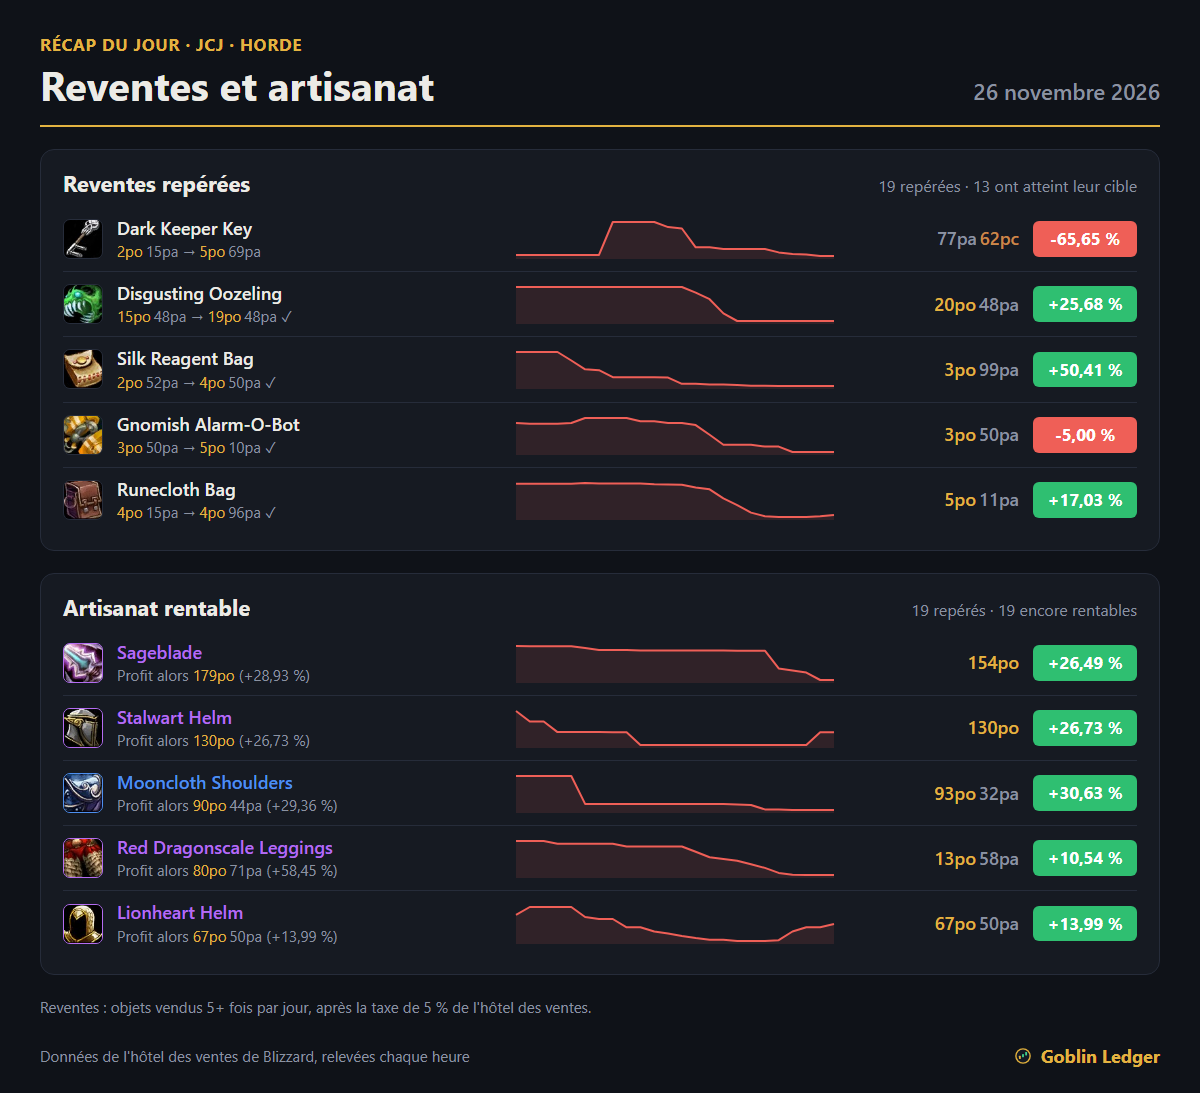
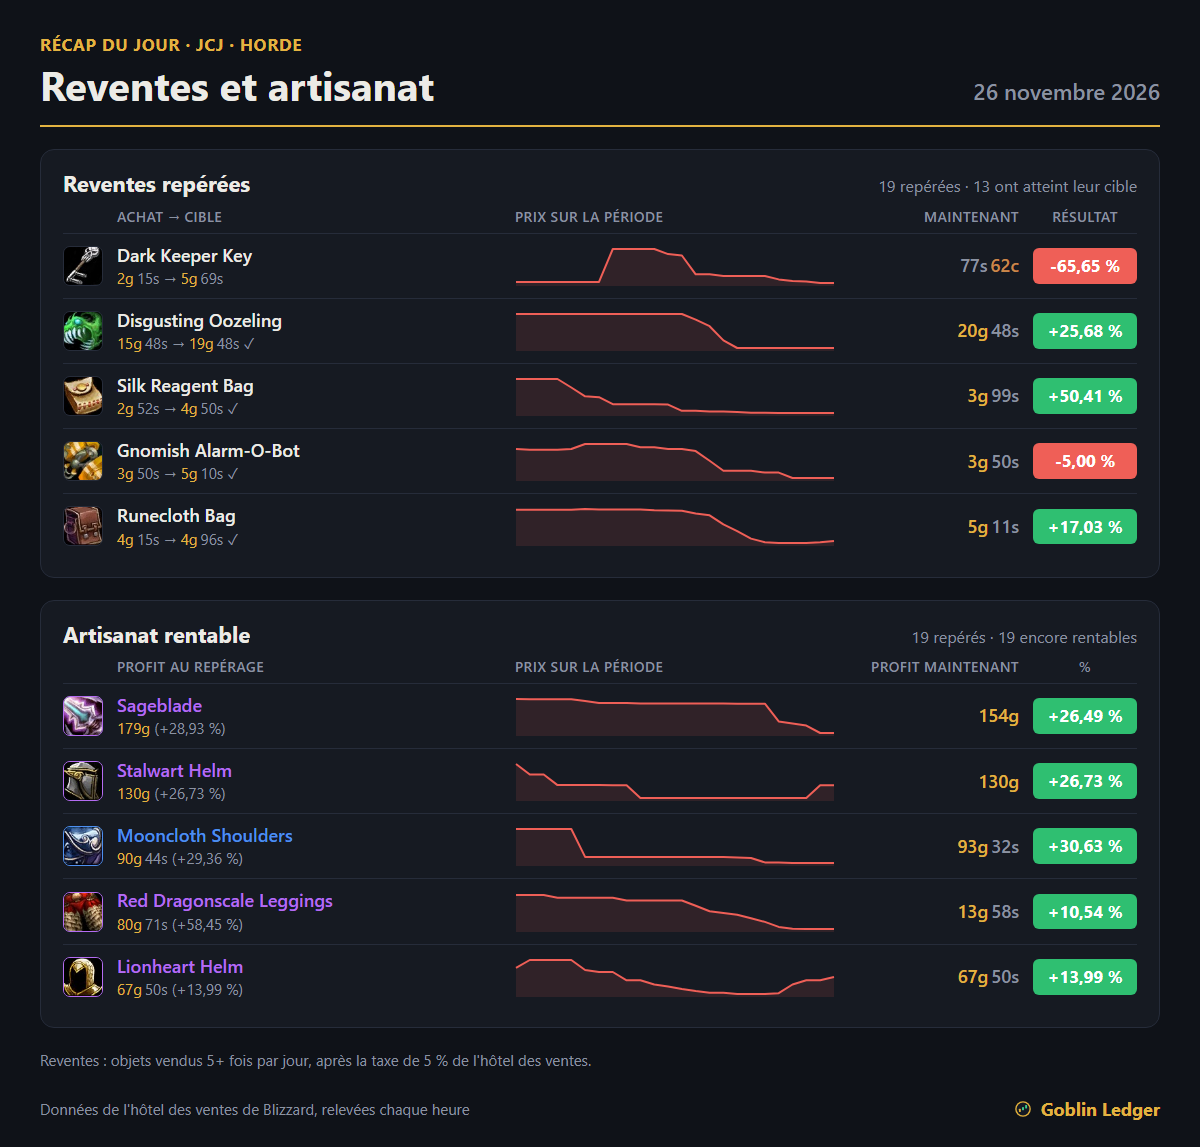
Money is g/s/c in every language, never po/pa/pc
App French locale, background alert runner, recap pages, Discord embed, AI prompt and guard (which
now rejects po/pa/pc). Samples re-rendered.

diff --git a/src/lib/i18n.ts b/src/lib/i18n.ts
@@ -429,8 +429,8 @@ const fr: Record<MessageKey, string> = {
   indexes: "Indices",
   indexesUnavailable: "Les indices ne sont pas encore disponibles pour cet hôtel des ventes.",
   indexProvisional: "Base 100 à la clôture du 19 nov. 2026 pour cet hôtel : aucun prix antérieur pour partir du lancement.",
-  indexMethod: "Fonctionnement des indices : paniers fixes pondérés par le volume quotidien en or (ventes estimées par jour × valeur marchande), plafonnés par objet; valeur = niveau au début de la période × Σ poids × prix actuel ÷ prix au début. Base 100 = lancement de WoW Forever (4 nov. 2026) : valeurs quotidiennes depuis le lancement, puis horaires, avec chaînage. Le panier est choisi sur la première journée complète (19 nov.), le prix de base de chaque objet étant la médiane de cette journée. Chaque heure, le prix d’un objet est la médiane de ses 7 dernières heures : une annonce isolée ne peut pas faire bondir un indice. Les marchés de la semaine du lancement étaient minces : chaque jour, le niveau suit la variation des objets cotés ce jour-là et jusqu’à trois jours avant; un objet qui commence à se vendre plus tard entre sans faire bouger le niveau, et la variation quotidienne d’un objet compte au plus pour ×2 ou ÷2. Rééquilibrés à la première réinitialisation hebdomadaire de chaque mois (mardi 15 h UTC), avec chaînage pour que le niveau ne saute pas : un objet doit se vendre au moins une fois et pour 1 po par jour, les objets en place restent tant qu'ils sont classés dans 1,2 × la taille du panier, et chaque trimestre (janvier, avril, juillet, octobre) le panier est reconstruit sur les 14 derniers jours. Les prix de plus de 72 h sont exclus. Un indice demande au moins 5 objets activement échangés dans un hôtel des ventes; sinon il n’y est pas affiché.",
-  indexMethod4: "Fonctionnement des indices : chaque indice est un panier dont les poids restent fixes d’une révision à l’autre, selon l’or échangé un jour typique par objet (avant que les ventes soient connues, l’or mis en vente) et plafonnés par objet. Valeur = niveau à la dernière révision × la moyenne géométrique pondérée de prix actuel ÷ prix à cette révision : un prix qui double et un prix qui diminue de moitié s’annulent. Le prix d’un objet est la médiane de ses 7 dernières heures, maintenue entre ×2 et ÷2 de son niveau récent, et il compte au plus pour ×3 ou ÷3 de son prix à la révision. Base 100 = lancement de WoW Forever (4 nov. 2026) : prix quotidiens depuis le lancement, puis nos prix horaires à partir du 18 nov. Les hôtels neutres, sans prix antérieurs, partent de 100 le 18 nov. (les indices peu fournis quelques jours plus tard). Le premier panier vient des journées du 5 au 9 nov.; chaque panier suivant n’utilise que les données antérieures à sa révision. Révisions : à chaque réinitialisation du mardi pendant les semaines de lancement (10, 17 et 24 nov.), puis à la première réinitialisation de chaque mois (15 h UTC) : un objet doit se vendre au moins une fois et pour 1 po par jour, les objets en place restent tant qu'ils sont classés dans 1,2 × la taille du panier, et chaque trimestre (janvier, avril, juillet, octobre) le panier est reconstruit sur les 14 derniers jours. Une révision ne fait jamais bouger le niveau. Les prix de plus de 72 h sont exclus. Un indice demande au moins 5 objets activement échangés dans un hôtel des ventes; sinon il n’y est pas affiché.",
+  indexMethod: "Fonctionnement des indices : paniers fixes pondérés par le volume quotidien en or (ventes estimées par jour × valeur marchande), plafonnés par objet; valeur = niveau au début de la période × Σ poids × prix actuel ÷ prix au début. Base 100 = lancement de WoW Forever (4 nov. 2026) : valeurs quotidiennes depuis le lancement, puis horaires, avec chaînage. Le panier est choisi sur la première journée complète (19 nov.), le prix de base de chaque objet étant la médiane de cette journée. Chaque heure, le prix d’un objet est la médiane de ses 7 dernières heures : une annonce isolée ne peut pas faire bondir un indice. Les marchés de la semaine du lancement étaient minces : chaque jour, le niveau suit la variation des objets cotés ce jour-là et jusqu’à trois jours avant; un objet qui commence à se vendre plus tard entre sans faire bouger le niveau, et la variation quotidienne d’un objet compte au plus pour ×2 ou ÷2. Rééquilibrés à la première réinitialisation hebdomadaire de chaque mois (mardi 15 h UTC), avec chaînage pour que le niveau ne saute pas : un objet doit se vendre au moins une fois et pour 1g par jour, les objets en place restent tant qu'ils sont classés dans 1,2 × la taille du panier, et chaque trimestre (janvier, avril, juillet, octobre) le panier est reconstruit sur les 14 derniers jours. Les prix de plus de 72 h sont exclus. Un indice demande au moins 5 objets activement échangés dans un hôtel des ventes; sinon il n’y est pas affiché.",
+  indexMethod4: "Fonctionnement des indices : chaque indice est un panier dont les poids restent fixes d’une révision à l’autre, selon l’or échangé un jour typique par objet (avant que les ventes soient connues, l’or mis en vente) et plafonnés par objet. Valeur = niveau à la dernière révision × la moyenne géométrique pondérée de prix actuel ÷ prix à cette révision : un prix qui double et un prix qui diminue de moitié s’annulent. Le prix d’un objet est la médiane de ses 7 dernières heures, maintenue entre ×2 et ÷2 de son niveau récent, et il compte au plus pour ×3 ou ÷3 de son prix à la révision. Base 100 = lancement de WoW Forever (4 nov. 2026) : prix quotidiens depuis le lancement, puis nos prix horaires à partir du 18 nov. Les hôtels neutres, sans prix antérieurs, partent de 100 le 18 nov. (les indices peu fournis quelques jours plus tard). Le premier panier vient des journées du 5 au 9 nov.; chaque panier suivant n’utilise que les données antérieures à sa révision. Révisions : à chaque réinitialisation du mardi pendant les semaines de lancement (10, 17 et 24 nov.), puis à la première réinitialisation de chaque mois (15 h UTC) : un objet doit se vendre au moins une fois et pour 1g par jour, les objets en place restent tant qu'ils sont classés dans 1,2 × la taille du panier, et chaque trimestre (janvier, avril, juillet, octobre) le panier est reconstruit sur les 14 derniers jours. Une révision ne fait jamais bouger le niveau. Les prix de plus de 72 h sont exclus. Un indice demande au moins 5 objets activement échangés dans un hôtel des ventes; sinon il n’y est pas affiché.",
   indexBase: "Base 100 =",
   launchLabel: "lancement, 4 nov. 2026",
   indexRebalanced: "panier depuis le",

diff --git a/collector/recap-ai.ts b/collector/recap-ai.ts
@@ -59,9 +59,9 @@ export interface Allowed {
 export interface Facts { json: Record<string, unknown>; allowed: Allowed }
 
 const round1 = (v: number) => Math.round(v * 10) / 10;
-/** Gold, silver and copper as the summary writes them: 18g 49s / 87s 94c / 12c (po/pa/pc in French); from 1,000 gold, gold only. */
+/** Gold, silver and copper as the summary writes them: 18g 49s / 87s 94c / 12c in every language; from 1,000 gold, gold only. */
 export function coinText(copper: number, lang: Lang): string {
-  const suf = lang === "fr" ? { g: "po", s: "pa", c: "pc" } : { g: "g", s: "s", c: "c" };
+  const suf = { g: "g", s: "s", c: "c" };
   const v = Math.round(Math.abs(copper));
   const g = Math.floor(v / 10_000);
   const s = Math.floor((v % 10_000) / 100);
@@ -184,7 +184,7 @@ export function loadContext(path: string = join(dirname(fileURLToPath(import.met
 
 /** The chat messages: a strict system prompt and the facts as JSON. */
 export function buildMessages(facts: Facts, kind: RecapFile["kind"], lang: Lang, context: string, retryNote?: string): { role: "system" | "user"; content: string }[] {
-  const language = lang === "fr" ? "Canadian French (Québec), with prices in po/pa/pc as given" : "English, with prices in g/s/c as given";
+  const language = lang === "fr" ? "Canadian French (Québec), with prices in g/s/c exactly as given (never po/pa/pc)" : "English, with prices in g/s/c as given";
   const period = kind === "daily" ? "day" : kind === "weekly" ? "week" : "month";
   const system = [
     `You write the market-close summary of a World of Warcraft: Forever auction house recap for the Goblin Ledger newsletter, in ${language}.`,
@@ -220,9 +220,9 @@ function parseNumber(raw: string, lang: Lang): Written | null {
 
 const NUM = String.raw`\d{1,3}(?:[,   ]\d{3})+(?:[.,]\d+)?|\d+(?:[.,]\d+)?`;
 
-/** Gold amounts such as "18g 49s", "21,219g", "87s 94c" (po/pa/pc in French), in copper with their precision. */
+/** Gold amounts such as "18g 49s", "21,219g", "87s 94c" (g/s/c in every language), in copper with their precision. */
 function moneyTokens(text: string, lang: Lang): { copper: number; half: number; span: [number, number] }[] {
-  const [g, s, c] = lang === "fr" ? ["po", "pa", "pc"] : ["g", "s", "c"];
+  const [g, s, c] = ["g", "s", "c"];
   const re = new RegExp(String.raw`(?:(${NUM})\s?${g}\b)?\s?(?:(\d{1,2})\s?${s}\b)?\s?(?:(\d{1,2})\s?${c}\b)?`, "g");
   const out: { copper: number; half: number; span: [number, number] }[] = [];
   for (const m of text.matchAll(re)) {
@@ -247,6 +247,7 @@ export function checkSummary(text: string, facts: Facts, lang: Lang): Check {
   const sentences = t.split(/(?<=[.!?])\s+/).filter((x) => x.trim());
   if (sentences.length < 2 || sentences.length > 4 || t.length > 520) problems.push(`length (${sentences.length} sentences, ${t.length} characters)`);
   if (/[*#_`|]|https?:/.test(t)) problems.push("markup or link");
+  if (/\d\s?(?:po|pa|pc)\b/i.test(t)) problems.push("money must be written in g, s and c");
 
   // Amounts of gold.
   let rest = t;

diff --git a/tests/recap-ai.test.ts b/tests/recap-ai.test.ts
@@ -66,9 +66,11 @@ describe("recap summary guard", () => {
 
   it("reads French numbers and words", () => {
     const fr = factsFor(recap, { ...names, item: (id: number) => ({ 4407: "Lunette de précision", 20750: "Huile de sorcier", 15407: "Peau robuste traitée", 13512: "Flacon de pouvoir suprême", 11197: "Clé du gardien noir" } as Record<number, string>)[id]!, index: (id: string) => ({ gl100: "Ledger 100", herbs: "Herbes", elemental: "Éléments", leather: "Cuir" } as Record<string, string>)[id]! }, "fr", [], context.numbers, END + 1_800);
-    const text = "Le Ledger 100 a peu bougé sur la journée, en baisse de 0,4 % à 41,12. Les Éléments ont grimpé de 12,2 % tandis que le Cuir a reculé de 4,6 %. La Lunette de précision a bondi de 181,8 % à 85pa 74pc, et la Peau robuste traitée a été la plus échangée avec 21 219po par jour.";
+    const text = "Le Ledger 100 a peu bougé sur la journée, en baisse de 0,4 % à 41,12. Les Éléments ont grimpé de 12,2 % tandis que le Cuir a reculé de 4,6 %. La Lunette de précision a bondi de 181,8 % à 85s 74c, et la Peau robuste traitée a été la plus échangée avec 21 219g par jour.";
     expect(checkSummary(text, fr, "fr")).toEqual({ ok: true, problems: [] });
     expect(checkSummary(text.replace("le Cuir a reculé", "le Cuir a grimpé"), fr, "fr").ok).toBe(false);
+    // Money is g, s and c in every language: po/pa/pc is rejected.
+    expect(checkSummary(text.replace("21 219g", "21 219po"), fr, "fr").problems).toContain("money must be written in g, s and c");
   });
 
   it("asks for the data only, at a low temperature, in one request", async () => {

diff --git a/tests/money.test.ts b/tests/money.test.ts
@@ -13,14 +13,14 @@ describe("money", () => {
     expect(formatMoney(10_005)).toBe("1g 5c");
     expect(formatMoney(0)).toBe("0c");
     expect(formatMoney(-250)).toBe("-2s 50c");
-    expect(formatMoney(123_456, "fr")).toBe("12po 34pa 56pc");
+    expect(formatMoney(123_456, "fr")).toBe("12g 34s 56c");
     expect(formatMoney(25_000_000)).toBe("2,500g");
-    expect(formatMoney(25_000_000, "fr")).toBe("2 500po");
+    expect(formatMoney(25_000_000, "fr")).toBe("2 500g");
   });
 
   it("shortens axis labels", () => {
     expect(formatMoneyShort(123_456)).toBe("12.35g");
-    expect(formatMoneyShort(123_456, "fr")).toBe("12,35po");
+    expect(formatMoneyShort(123_456, "fr")).toBe("12,35g");
     expect(formatMoneyShort(4_500)).toBe("45s");
     expect(formatMoneyShort(80)).toBe("80c");
     expect(formatMoneyShort(25_000_000)).toBe("2500g");
@@ -37,7 +37,7 @@ describe("axis labels", () => {
   it("shows at most two coin units", () => {
     expect(formatMoneyAxis(122_577)).toBe("12g 25s");
     expect(formatMoneyAxis(12_345_678)).toBe("1,234g");
-    expect(formatMoneyAxis(2_577, "fr")).toBe("25pa 77pc");
+    expect(formatMoneyAxis(2_577, "fr")).toBe("25s 77c");
     expect(formatMoneyAxis(77)).toBe("77c");
     expect(formatMoneyAxis(800_000)).toBe("80g");
     expect(formatMoneyAxis(2_500)).toBe("25s");

diff --git a/src/recap/RecapShare.tsx b/src/recap/RecapShare.tsx
@@ -60,7 +60,7 @@ const L = {
     buy: "Achat", target: "cible", now: "Maintenant", priceNow: "Prix sur la période", result: "Résultat", reached: "Atteinte", profitThen: "Profit au repérage", profitNow: "Profit maintenant",
     flipsSum: (f: number, r: number) => `${f} repérées · ${r} ont atteint leur cible`, craftsSum: (f: number, s: number) => `${f} repérés · ${s} encore rentables`,
     none: "Rien n'a rempli les critères sur la période.", notEnough: "Pas encore assez d'historique.",
-    rules: "Variations et records : objets vendus 10+ fois par jour, 500+ po échangées par jour, prix de 1 po ou plus.",
+    rules: "Variations et records : objets vendus 10+ fois par jour, 500g+ échangés par jour, prix de 1g ou plus.",
     flipRule: "Reventes : objets vendus 5+ fois par jour, après la taxe de 5 % de l'hôtel des ventes.", source: "Données de l'hôtel des ventes de Blizzard, relevées chaque heure",
     rebalance: "Prochain rééquilibrage des indices", was: "avant",
   },

diff --git a/collector/discord-recap.ts b/collector/discord-recap.ts
@@ -162,7 +162,7 @@ export function buildMessage(r: RecapFile, lang: Lang, names: Names, images: rea
   const T = TEXT[lang];
   const num = (n: number) => n.toLocaleString(lang === "fr" ? "fr-CA" : "en-US").replace(/ | /g, " ");
   // 1,000 gold and up: whole gold with separators ("21,220g"), else the app's short form ("2.15g", "56.3s").
-  const money = (c: number) => (Math.abs(c) >= 10_000_000 ? `${num(Math.round(c / 10_000))}${lang === "fr" ? " po" : "g"}` : formatMoneyShort(c, lang));
+  const money = (c: number) => (Math.abs(c) >= 10_000_000 ? `${num(Math.round(c / 10_000))}g` : formatMoneyShort(c, lang));
   const pct = (v: number | null | undefined) => (v == null ? "" : ` (${pctText(v, lang, true)})`);
   const gl = r.indexes?.find(([id]) => id === "gl100");
   const color = gl == null ? COLORS.flat : gl[3] >= 0.5 ? COLORS.up : gl[3] <= -0.5 ? COLORS.down : COLORS.flat;

diff --git a/tests/runner.test.ts b/tests/runner.test.ts
@@ -45,7 +45,7 @@ describe("background alert runner", () => {
     const r = loadRunner({ "113": { items: { "13468": [100_000, 150_000, 1, 1, 0, 1, -1] } } });
     await r.fire("syncAlerts", { alerts: [alert({ field: "min", price: 100_000 }), alert({ id: "x", house: 999 })], lang: "fr", names: {} });
     await r.fire("checkAlerts");
-    expect(r.notifications.map((n) => n.body)).toEqual(["#13468 descend sous 10po (10po)"]);
+    expect(r.notifications.map((n) => n.body)).toEqual(["#13468 descend sous 10g (10g)"]);
   });
 
   it("reports a watched list's deals once, even with no price alert, and hands them to the app", async () => {

diff --git a/src/lib/money.ts b/src/lib/money.ts
@@ -18,10 +18,10 @@ export function splitCopper(amount: number): Coins {
   };
 }
 
-/** Coin suffixes as the game shows them: g/s/c in English, po/pa/pc in French. */
+/** Coin suffixes: g/s/c in every language (the owner's rule: never po/pa/pc). */
 export const COIN_SUFFIX: Record<Lang, { gold: string; silver: string; copper: string }> = {
   en: { gold: "g", silver: "s", copper: "c" },
-  fr: { gold: "po", silver: "pa", copper: "pc" },
+  fr: { gold: "g", silver: "s", copper: "c" },
 };
 
 /** "12g 3s 40c": zero leading units are dropped, zero trailing ones too (but 0 shows "0c"). */

diff --git a/public/runners/alerts.js b/public/runners/alerts.js
@@ -37,7 +37,7 @@ function money(copper, lang) {
   var g = Math.floor(copper / 10000);
   var s = Math.floor((copper % 10000) / 100);
   var c = copper % 100;
-  var u = lang === "fr" ? ["po", "pa", "pc"] : ["g", "s", "c"];
+  var u = ["g", "s", "c"];
   if (g > 0) return g + u[0] + (s > 0 ? " " + s + u[1] : "");
   if (s > 0) return s + u[1] + (c > 0 ? " " + c + u[2] : "");
   return c + u[2];

diff --git a/docs/INDEXES.md b/docs/INDEXES.md
@@ -153,7 +153,7 @@ anciennes séries sont conservées dans `index/legacy/`.
   valeur, un objet compte au plus pour ×3 ou ÷3 de son prix à la révision.
 - **Poids.** Or échangé un jour typique (médiane des ventes estimées × prix), plafonné par objet. Avant le 18 nov., sans
   chiffres de ventes : l'or mis en vente un jour typique. Seuls les objets liquides entrent (au moins 5 ventes dans la
-  fenêtre, 1 par jour, 1 po échangée par jour).
+  fenêtre, 1 par jour, 1g échangé par jour).
 - **Base.** 100 le premier jour de données (5 nov. 2026, lancement de WoW Forever). Les hôtels sans prix antérieurs
   (Bourbe-Noire) partent de 100 à la fin de leur première journée de prix horaires. Un indice qui manque alors d'objets
   actifs part un jour suivant, jusqu'au 22 nov. (cinq journées de formation, comme au lancement), puis seulement à une
